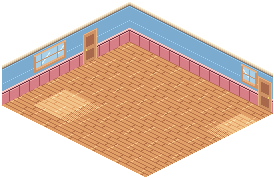
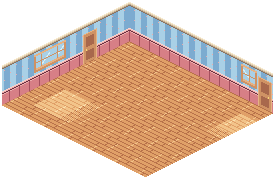
AI-4: kitchen (tile backsplash, sage checker) and bedroom (striped paper) shells redesigned

diff --git a/tools/materials/gen.py b/tools/materials/gen.py
@@ -21,7 +21,7 @@ def floor_plank(ramp):
     return f
 def floor_checker(a, b):
     def f(u, v):
-        if u % 8 == 0 or v % 8 == 0: return R(a, 1)
+        if u % 8 == 0 or v % 8 == 0: return R(a, 2)
         return R(a, 3) if ((u // 8) + (v // 8)) % 2 == 0 else R(b, 2)
     return f
 def floor_stone(ramp):
@@ -109,11 +109,29 @@ def shell(room, cols, rows, wallh_units, pal_cfg, windows=(), doors=(), tod='day
             if 0 <= gyl < rows and 0 <= hv < wh: img[sy, sx] = wall_col('left', int(gyl * 16), int(hv))
     return img, (px0, py0)
 
+def wall_tiled(c1, c2, top=34):
+    """Kitchen: striped paper above, cream tile backsplash (8x6 tiles, light grout) from the wainscot up to `top`."""
+    stripe = wall_striped(c1, c2)
+    def f(u, v):
+        if v < top:
+            if v == top - 1: return R('teal', 3)
+            if (v - 14) % 6 == 5 or (u + (3 if ((v - 14) // 6) % 2 else 0)) % 8 == 7: return R('plaster', 2)
+            return R('plaster', 4) if hsh_(u, v) > 14 else R('plaster', 3)
+        return stripe(u, v)
+    return f
+def hsh_(x, y): return ((x * 73856093) ^ (y * 19349663)) % 100
+def wall_dotted(ramp, dot):
+    """Bedroom: soft two-tone stripes with a sparse rose dot lattice, picture-rail line near the top."""
+    def f(u, v):
+        if v == 55: return R('plaster', 3)
+        if (u % 12 == 5 and v % 10 == 3) or (u % 12 == 11 and v % 10 == 8): return R(dot, 3)
+        return R(ramp, 3) if (u // 6) % 2 else R(ramp, 2)
+    return f
 WAINS = {'living': 'sage', 'kitchen': 'teal', 'bedroom': 'rose', 'bathroom': 'sky'}  # painted wainscot, no dark wood
 def room_cfg(room):
     r = PAL['rooms'][room]
-    if room == 'kitchen': fl = floor_checker('stone', 'plaster'); wp = wall_striped('butter', 'plaster')
-    elif room == 'bedroom': fl = floor_plank('woodWarm'); wp = wall_plain('sky')
+    if room == 'kitchen': fl = floor_checker('sage', 'plaster'); wp = wall_tiled('butter', 'plaster')
+    elif room == 'bedroom': fl = floor_plank('woodWarm'); wp = wall_dotted('sky', 'rose')
     elif room == 'bathroom': fl = floor_stone('plaster'); wp = wall_plain('teal')
     else: fl = floor_plank(r['floor'] if r['floor'].startswith('wood') else 'woodWarm'); wp = wall_striped('plaster', r['accent'])
     return {'floor_fn': fl, 'wall_fn': wp, 'wains_fn': wainscot(WAINS.get(room, 'sage')), 'trim_fn': trim_rail('plaster')}

diff --git a/docs/status/AI-4.md b/docs/status/AI-4.md
@@ -4,6 +4,7 @@
 - Theme v2 (TO-AI-4 section 0): palette.json has `theme` block; woodWarm/woodDark lightened; `plum` ramp replaced by `slate` (64 colours kept); ink #2a2030; UI kit regenerated in slate/cream with orange/teal/terracotta buttons; shells use cream trim and painted wainscot; A0 slab edge teal; ART-BIBLE rule added.
 - Earlier: check_fronts, fronts.json (32 models), A0 passed, UI kit v0, icons, avatar/cat, shells day/dusk/night.
 - Exterior kit (27 frames, group `house`, public/atlas/house.png): yard/lawn_0-2, path, flowers_0-3, bush_0-2, tree_0-1, fence_r/l/corner/gate, mailbox; porch/floor, steps, awning, railing, door, mat, lamp, lamp_glow, plant. Generator tools/pixelart/yard.py; ledger rows added; check.py accepts yard/porch names.
+- Kitchen shell redesign: cream tile backsplash with teal cap, sage/cream checker floor (was grey). Bedroom shell: soft blue stripes with rose dot lattice and picture-rail line. Living unchanged.
 ## Verified
 - check.py core: 74 files, 0 problems; room-slice: 49 files, 0 problems (see commit).
 ## Not verified
@@ -14,4 +15,4 @@
 ## Requests
 - AI-3: src/ui/theme.ts should read docs/art/palette.json `theme`. AI-1: add check_fronts.py to `npm run verify`.
 ## Next
-- Kitchen and bedroom shells (real redesign), then spot frames.
+- Stairs shell between floors, then spot frames (spot/<kind>/closed|open, padlock overlay).
